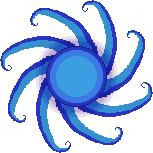
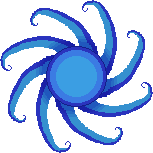
Octopus

diff --git a/cs/spaceship/waves/Wave1.java b/cs/spaceship/waves/Wave1.java
@@ -17,8 +17,8 @@ import cs.spaceship.entity.enemy.DefaultEnemyFactory;
 import cs.spaceship.entity.enemy.Enemy;
 import cs.spaceship.entity.enemy.EnemyFactory;
 import cs.spaceship.entity.enemy.FactoryMultiplier;
-import cs.spaceship.entity.enemy.LineEnemy;
 import cs.spaceship.entity.enemy.SideToSideEnemy;
+import cs.spaceship.entity.enemy.SpiralEnemy;
 import cs.spaceship.entity.enemy.ZigZagEnemy;
 import java.awt.Color;
 
@@ -57,10 +57,9 @@ public class Wave1 implements Wave {
         zig2.equip(new CircleCannon(new Bullet(0, 0, 6, 0, 8, Color.MAGENTA, playerG), 70, 8));
         target.add(zig1);
         target.add(zig2);
-        LineEnemy spiral = new LineEnemy(2);
+        SpiralEnemy spiral = new SpiralEnemy(2);
         spiral.setPosition(new Vector2D(GameFrame.WINDOW_WIDTH / 2, 0));
         spiral.equip(new SpiralCannon(new Bullet(0, 0, 10, 0, 6, Color.PINK, playerG), 20, Math.PI / 2, 16));
-        ((SpiralCannon)spiral.getCannon()).vely = spiral.getVelocity();
         target.add(spiral);
     }
 }

diff --git a/cs/spaceship/entity/enemy/SpiralEnemy.java b/cs/spaceship/entity/enemy/SpiralEnemy.java
@@ -1,0 +1,30 @@
+/*
+ * To change this template, choose Tools | Templates
+ * and open the template in the editor.
+ */
+
+package cs.spaceship.entity.enemy;
+
+import cs.spaceship.Animation;
+import cs.spaceship.entity.Cannon;
+import cs.spaceship.entity.SpiralCannon;
+
+/**
+ *
+ * @author s506571
+ */
+public class SpiralEnemy extends LineEnemy {
+    public static final Animation ANIM = new Animation("octopus%d.png", 2, Animation.fromFPS(15));
+
+    public SpiralEnemy(int velocity) {
+        super(velocity);
+        animator = ANIM.new Animator();
+    }
+    @Override
+    public void equip(Cannon c) {
+        super.equip(c);
+        if (c instanceof SpiralCannon) {
+            ((SpiralCannon)c).vely = velocity;
+        }
+    }
+}

diff --git a/cs/spaceship/entity/Spaceship.java b/cs/spaceship/entity/Spaceship.java
@@ -22,7 +22,7 @@ import java.awt.Image;
  * @author s506571
  */
 public class Spaceship extends Entity implements Targetable {
-    public static final Animation ANIM = new Animation("xwing%d.png", 2, GamePanel.FPS / (1000 / 100));
+    public static final Animation ANIM = new Animation("xwing%d.png", 2, Animation.fromFPS(10));
     private Animation.Animator animator;
 
     public static final int HORIZONTAL_SPEED = 12;

diff --git a/cs/spaceship/Animation.java b/cs/spaceship/Animation.java
@@ -32,6 +32,10 @@ public class Animation {
         }
     }
 
+    public static int fromFPS(double fps) {
+        return (int)(GamePanel.FPS / fps);
+    }
+
     public class Animator {
         int frame = 0;
         int timer = 0;
